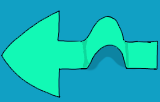
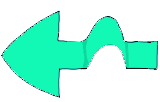
Se modificó la imagen FlechaAtras.png así como se hicieron varias modificaciones a las clases MenuJudafaals, MenuNiveles, PantallaAbout y PantallAyuda.

diff --git a/core/src/mx/itesm/jgj/PantallaAyuda.java b/core/src/mx/itesm/jgj/PantallaAyuda.java
@@ -8,6 +8,12 @@ import com.badlogic.gdx.graphics.OrthographicCamera;
 import com.badlogic.gdx.graphics.Texture;
 import com.badlogic.gdx.graphics.g2d.Sprite;
 import com.badlogic.gdx.graphics.g2d.SpriteBatch;
+import com.badlogic.gdx.graphics.g2d.TextureRegion;
+import com.badlogic.gdx.scenes.scene2d.InputEvent;
+import com.badlogic.gdx.scenes.scene2d.Stage;
+import com.badlogic.gdx.scenes.scene2d.ui.ImageButton;
+import com.badlogic.gdx.scenes.scene2d.utils.ClickListener;
+import com.badlogic.gdx.scenes.scene2d.utils.TextureRegionDrawable;
 import com.badlogic.gdx.utils.viewport.StretchViewport;
 import com.badlogic.gdx.utils.viewport.Viewport;
 
@@ -15,60 +21,62 @@ import static mx.itesm.jgj.MenuJudafaals.ALTO;
 import static mx.itesm.jgj.MenuJudafaals.ANCHO;
 
 
-public class PantallaAyuda implements Screen {
+public class PantallaAyuda extends Pantalla {
 
-    private final JudafaalsGreatAdventure jdj;
+    private final JudafaalsGreatAdventure jga;
 
-    // Camara
-    private OrthographicCamera camara;
-    private Viewport vista;
-
-    // Batch
-    private SpriteBatch batch;
-
-    // Creación imágenes
+    // Creación de las texturas a utilizar en la pantalla.
     private Texture ayudaImg;
+    private TextureRegionDrawable texturaBack;
+
+    // Creación de la escena de la PantallaAyuda.
+    private Stage escenaPantallaAyuda;
 
     public PantallaAyuda(JudafaalsGreatAdventure judafaalsGreatAdventure) {
 
-        this.jdj = judafaalsGreatAdventure;
+        this.jga = judafaalsGreatAdventure;
     }
 
 
     @Override
     public void show() {
-        crearCamara();
-        batch = new SpriteBatch();
+        cargarTexturas();
+        crearEscenaAyuda();
+        Gdx.input.setInputProcessor(escenaPantallaAyuda);
+    }
+
+    private void cargarTexturas() {
         ayudaImg = new Texture("Fondos/PantallaAyudaB.png");
-        Gdx.input.setInputProcessor(new PantallaAyuda.ProcesadorEntrada());
-
-
+        texturaBack = new TextureRegionDrawable(new TextureRegion(new Texture("Botones/FlechaAtras.png")));
     }
 
-    private void crearCamara() {
-        camara = new OrthographicCamera(ANCHO, ALTO);
-        camara.position.set(ANCHO/2,ALTO/2, 0);
-        camara.update();
-        vista = new StretchViewport(ANCHO, ALTO, camara);
+    private void crearEscenaAyuda() {
+        escenaPantallaAyuda = new Stage(vista);
+
+        // Creación del botón back.
+        ImageButton btnBack = new ImageButton(texturaBack);
+        btnBack.setPosition(25, ALTO - 30 - btnBack.getHeight());
+        btnBack.addListener(new ClickListener(){
+            @Override
+            public void clicked(InputEvent event, float x, float y) {
+                super.clicked(event, x, y);
+                jga.setScreen(new MenuJudafaals(jga));
+            }
+        });
+        escenaPantallaAyuda.addActor(btnBack);
     }
+
 
     @Override
     public void render(float delta) {
-        Gdx.gl.glClearColor(1,1,1,1);
-        Gdx.gl.glClear(GL20.GL_COLOR_BUFFER_BIT);
+        borrarPantalla();
 
         batch.setProjectionMatrix(camara.combined);
 
         batch.begin();
         batch.draw(ayudaImg,0,0);
         batch.end();
-    }
-
-    @Override
-    public void resize(int width, int height) {
-        vista.update(width, height);
-
-
+        escenaPantallaAyuda.draw();
     }
 
     @Override
@@ -82,59 +90,11 @@ public class PantallaAyuda implements Screen {
     }
 
     @Override
-    public void hide() {
-
-    }
-
-    @Override
     public void dispose() {
 
         batch.dispose();
         ayudaImg.dispose();
+        escenaPantallaAyuda.dispose();
     }
 
-    private class ProcesadorEntrada implements InputProcessor{
-
-        @Override
-        public boolean keyDown(int keycode) {
-            return false;
-        }
-
-        @Override
-        public boolean keyUp(int keycode) {
-            return false;
-        }
-
-        @Override
-        public boolean keyTyped(char character) {
-            return false;
-        }
-
-        @Override
-        public boolean touchDown(int screenX, int screenY, int pointer, int button) {
-
-            jdj.setScreen(new MenuJudafaals(jdj));
-            return true; //Ya fue procesado el evento.
-        }
-
-        @Override
-        public boolean touchUp(int screenX, int screenY, int pointer, int button) {
-            return false;
-        }
-
-        @Override
-        public boolean touchDragged(int screenX, int screenY, int pointer) {
-            return false;
-        }
-
-        @Override
-        public boolean mouseMoved(int screenX, int screenY) {
-            return false;
-        }
-
-        @Override
-        public boolean scrolled(int amount) {
-            return false;
-        }
-    }
 }

diff --git a/core/src/mx/itesm/jgj/PantallaAbout.java b/core/src/mx/itesm/jgj/PantallaAbout.java
@@ -35,7 +35,6 @@ class PantallaAbout extends Pantalla {
     private Texture juanAguilar;
     private Texture fondoPantallaAbout;
     private TextureRegionDrawable texturaBackPantallaMas;
-    private TextureRegionDrawable texturaBackPantallaMasOnClick;
 
     // Textos a usar.
     private Texto texto;
@@ -59,13 +58,13 @@ class PantallaAbout extends Pantalla {
         escenaAbout = new Stage(vista);
 
         // Botón back que regresa a la pantalla mas.
-        ImageButton btnBackToPantallaMas = new ImageButton(texturaBackPantallaMas, texturaBackPantallaMasOnClick);
+        ImageButton btnBackToPantallaMas = new ImageButton(texturaBackPantallaMas);
         btnBackToPantallaMas.setPosition(25, ALTO - 25 - btnBackToPantallaMas.getHeight());
         btnBackToPantallaMas.addListener(new ClickListener(){
             @Override
             public void clicked(InputEvent event, float x, float y) {
                 super.clicked(event, x, y);
-                jga.setScreen(new PantallaMas(jga));
+                jga.setScreen(new MenuJudafaals(jga));
             }
         });
         escenaAbout.addActor(btnBackToPantallaMas);
@@ -82,7 +81,6 @@ class PantallaAbout extends Pantalla {
         juanAguilar = new Texture("AboutFotos/juanAguilar.png");
         fondoPantallaAbout = new Texture("Fondos/FondoAcercaDe.png");
         texturaBackPantallaMas = new TextureRegionDrawable(new TextureRegion(new Texture("Botones/FlechaAtras.png")));
-        texturaBackPantallaMasOnClick = new TextureRegionDrawable(new TextureRegion(new Texture("Botones/FlechaPado.png")));
     }
 
     @Override

diff --git a/core/src/mx/itesm/jgj/MenuNiveles.java b/core/src/mx/itesm/jgj/MenuNiveles.java
@@ -31,7 +31,7 @@ class MenuNiveles extends Pantalla {
     private TextureRegionDrawable texturaSegundoNivel;
     private TextureRegionDrawable texturaTecerNivel;
     private TextureRegionDrawable texturaBack;
-    private TextureRegionDrawable texturaBackOnClick;
+
 
     // Escenas
     private Stage escenaMenuNivel;
@@ -87,8 +87,8 @@ class MenuNiveles extends Pantalla {
         escenaMenuNivel.addActor(btnTercerNivel);
 
         // Botón home que va al menú principal.
-        ImageButton btnBack = new ImageButton(texturaBack, texturaBackOnClick);
-        btnBack.setPosition(25, ALTO - 25 - btnBack.getHeight());
+        ImageButton btnBack = new ImageButton(texturaBack);
+        btnBack.setPosition(0, ALTO - btnBack.getHeight());
         btnBack.addListener(new ClickListener() {
             @Override
             public void clicked(InputEvent event, float x, float y) {
@@ -107,7 +107,6 @@ class MenuNiveles extends Pantalla {
         texturaSegundoNivel = new TextureRegionDrawable(new TextureRegion(new Texture("Botones/BotonNivelDos.png")));
         texturaTecerNivel = new TextureRegionDrawable(new TextureRegion(new Texture("Botones/BotonNivelTres.png")));
         texturaBack = new TextureRegionDrawable(new TextureRegion(new Texture("Botones/FlechaAtras.png")));
-        texturaBackOnClick = new TextureRegionDrawable(new TextureRegion(new Texture("Botones/FlechaPado.png")));
     }
 
     @Override

diff --git a/core/src/mx/itesm/jgj/MenuJudafaals.java b/core/src/mx/itesm/jgj/MenuJudafaals.java
@@ -67,8 +67,8 @@ class MenuJudafaals extends Pantalla {
         escenaMenu = new Stage(vista);
         ImageButton btnPlay = crearBotonTodo("Botones/BotonPlay.png", "Botones/BotonPlayPado.png", ANCHO/2 - 95, ALTO/2 - 85,  new MenuNiveles(jdj));
         ImageButton btnAyuda= crearBotonTodo("Botones/BotonHelp.png","Botones/BotonAyudaPado.png",ANCHO - 240,ALTO/2 -350, new PantallaAyuda(jdj));
-        ImageButton btnMas = crearBotonTodo("Botones/BotonInfo.png", "Botones/BotonMasPado.png", ANCHO/24 - 50, ALTO/2 -350, new PantallaMas(jdj));
-        ImageButton btnSetting = crearBotonTodo("Botones/ajustes.png", "Botones/ajustesOnClick.png", 0, ALTO - 128, new PantallaSettings(jdj));
+        ImageButton btnMas = crearBotonTodo("Botones/BotonInfo.png", "Botones/BotonMasPado.png", ANCHO/24 - 50, ALTO/2 -350, new PantallaAbout(jdj));
+        ImageButton btnSetting = crearBotonTodo("Botones/Configuracion.png", "Botones/ConfiguracionPado.png", ANCHO/2 - 115, 50, new PantallaSettings(jdj));
     }
     //metodo para crear todos los componentes del boton en uno{
     private ImageButton crearBotonTodo(String texturaNormal, String texturaOnClick, float x, float y, final Screen screen) {
